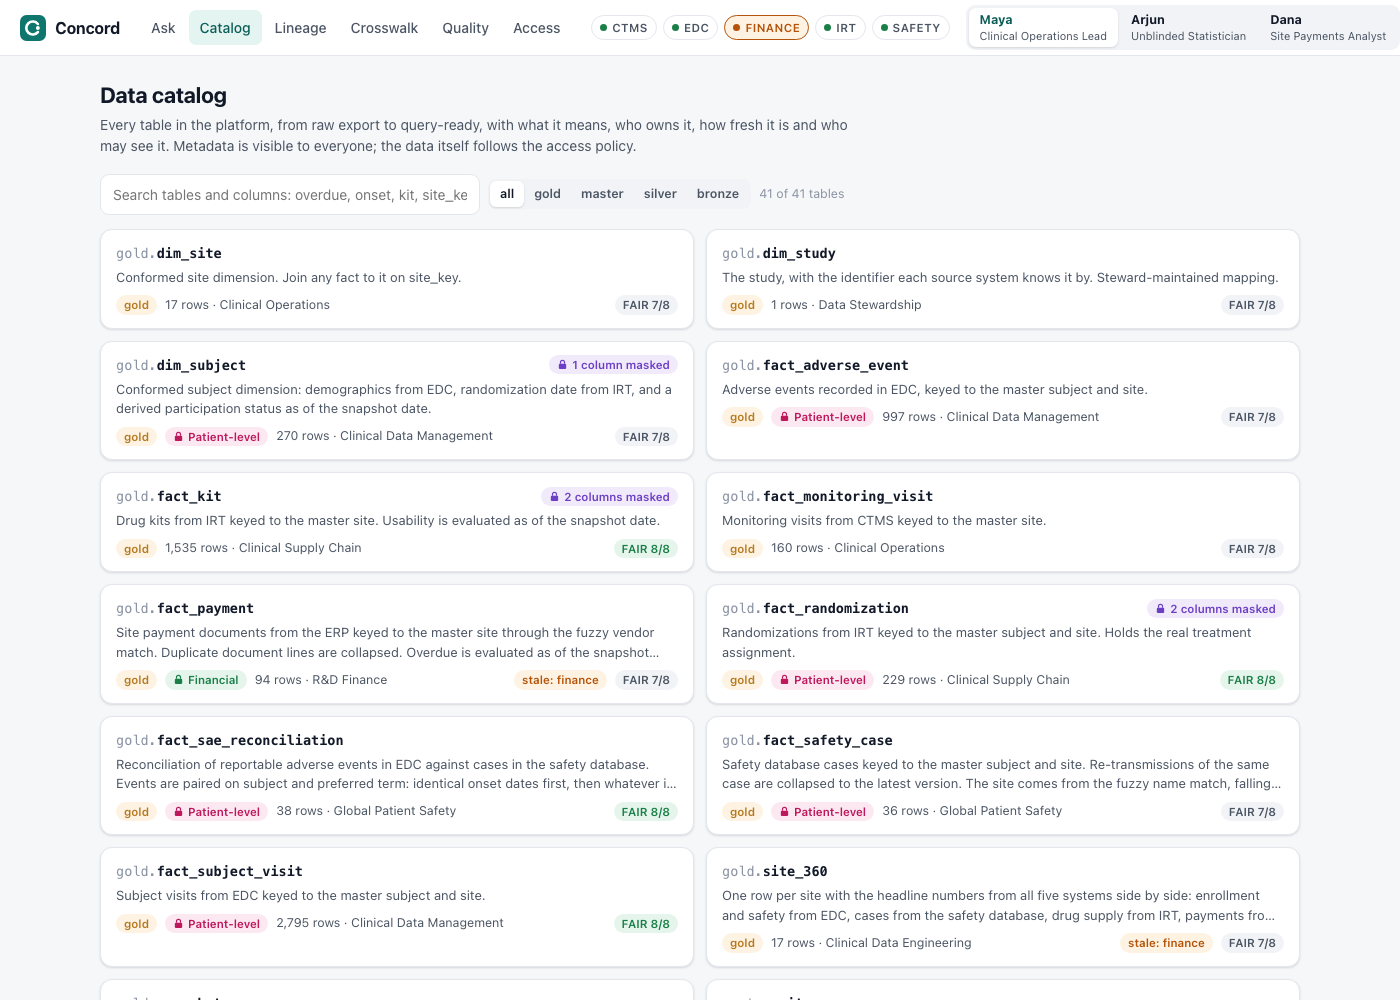
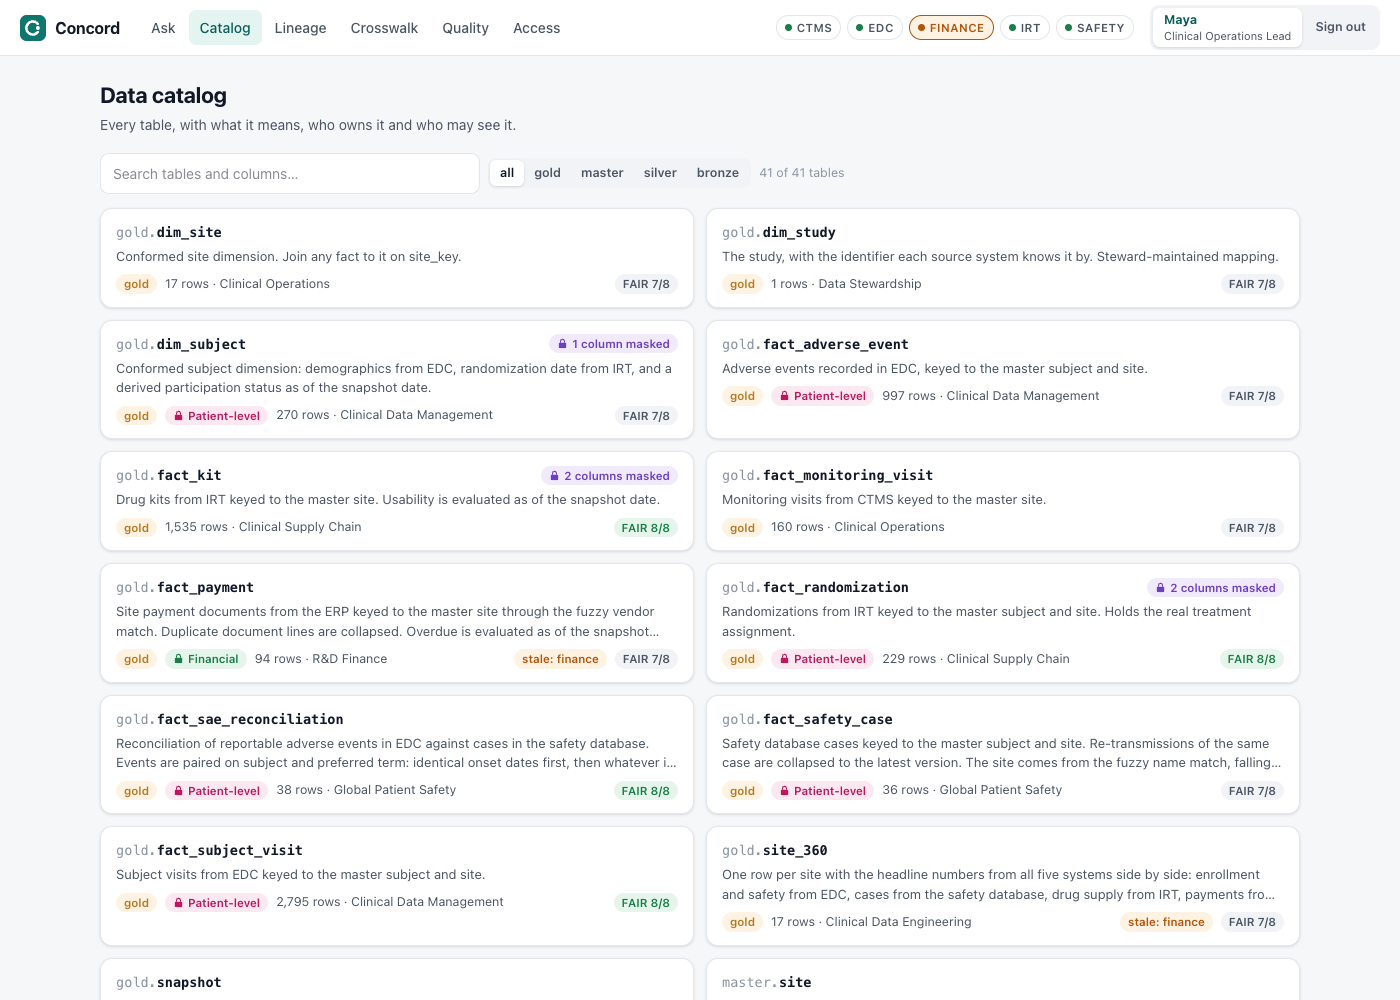
updated screenshots

diff --git a/docs/CLAUDE.md b/docs/CLAUDE.md
@@ -29,11 +29,12 @@ summary with what is written:
 | Role table (what the four starter roles hold: `STARTER_ROLES` in `server/backend/accounts.py`) | README |
 | Starter accounts and their password (`STARTERS` in `server/backend/accounts.py`) | README, DEMO |
 
-The screenshots were taken before sign-in existed: they show a role switcher at the top right
-where the account menu now is, `roles.png` shows the old Compare roles tab with row counts and
-"View as" buttons, and `access.png` shows three roles. `ask.png` is also from before the Ask page had
-its three ways to ask (Ask a question, Filter, Write SQL): it shows the reviewed-question chips, which are
-gone. Retake them before they are shown again.
+The screenshots show a fresh install: signed in as `maya`, the four starter roles, no Gemini key (so
+**Ask a question** is grayed out, as it is for a judge on a clean clone), the light theme, 1400 pixels wide
+(`lineage.png` 1800) at 1x. `ask.png` and `trace.png` are the headline filter link from `DEMO.md`, the second
+with `S718` clicked; `roles.png` is the subjects link with `&tab=roles`; `quality.png` and `catalog.png` are the
+top of the page and the rest are the whole page. They go stale like the figures above: retake the ones a
+change to a page, a figure or a wording touches.
 
 `DEMO.md` and the README's "What to try" link to `http://127.0.0.1:8040` and depend on the link format
 `/ask/?filter=<the picks as JSON>&tab=...`, which needs no Gemini key. The field names in those links
